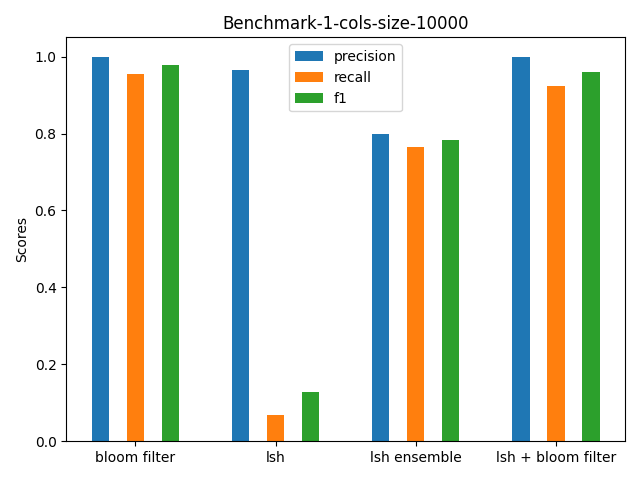
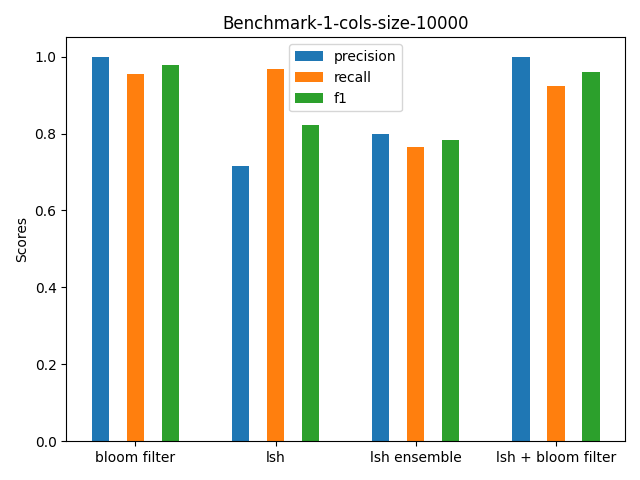
update bench

Changed region(s): [[0.3438, 0.125, 0.5, 0.875]]

diff --git a/benchmark.py b/benchmark.py
@@ -93,7 +93,7 @@ def benchmark(cols, candidate_index, threshold, bf_list, lsh, brute_force_result
 
     precision[0], recall[0], f1[0], time[0] = bf_benchmark(bf_list, cols, candidate_index, threshold,
                                                            brute_force_result)
-    precision[1], recall[1], f1[1], time[1] = lsh_benchmark(lsh, candidate_index, threshold, brute_force_result)
+    precision[1], recall[1], f1[1], time[1] = lsh_benchmark(lsh, candidate_index, 0.1, brute_force_result)
     precision[2], recall[2], f1[2], time[2] = lsh_ensemble_benchmark(lsh, candidate_index, threshold,
                                                                      brute_force_result)
     precision[3], recall[3], f1[3], time[3] = lsh_bf_benchmark(lsh, bf_list, candidate_index, threshold,
@@ -115,6 +115,13 @@ def benchmark(cols, candidate_index, threshold, bf_list, lsh, brute_force_result
     fig.tight_layout()
     # plt.show()
     fig.savefig("./bench_results/" + title)
+
+    f = open('./bench_results/'+title+".txt", 'w')
+    f.write(",".join(labels)+"\n")
+    f.write(",".join([str(i) for i in precision])+"\n")
+    f.write(",".join([str(i) for i in recall])+"\n")
+    f.write(",".join([str(i) for i in f1])+"\n")
+    f.write(",".join([str(i) for i in time])+"\n")
 
     return time
 
@@ -243,5 +250,5 @@ Output
 
 
 if __name__ == '__main__':
-    # generate_dataset("./dataset",[400, 600, 800, 1000]) //rerun to generate a new dataset
+    generate_dataset("./dataset",[100, 1000, 10000, 100000]) ##rerun to generate a new dataset
     integrated_benchmark("./dataset")
